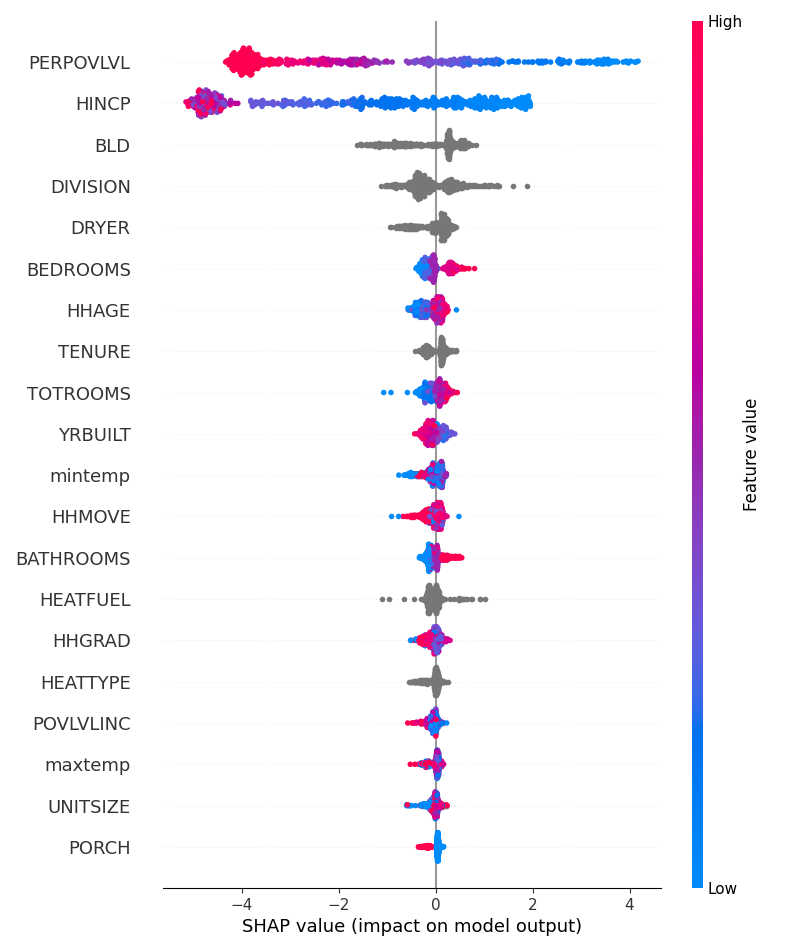
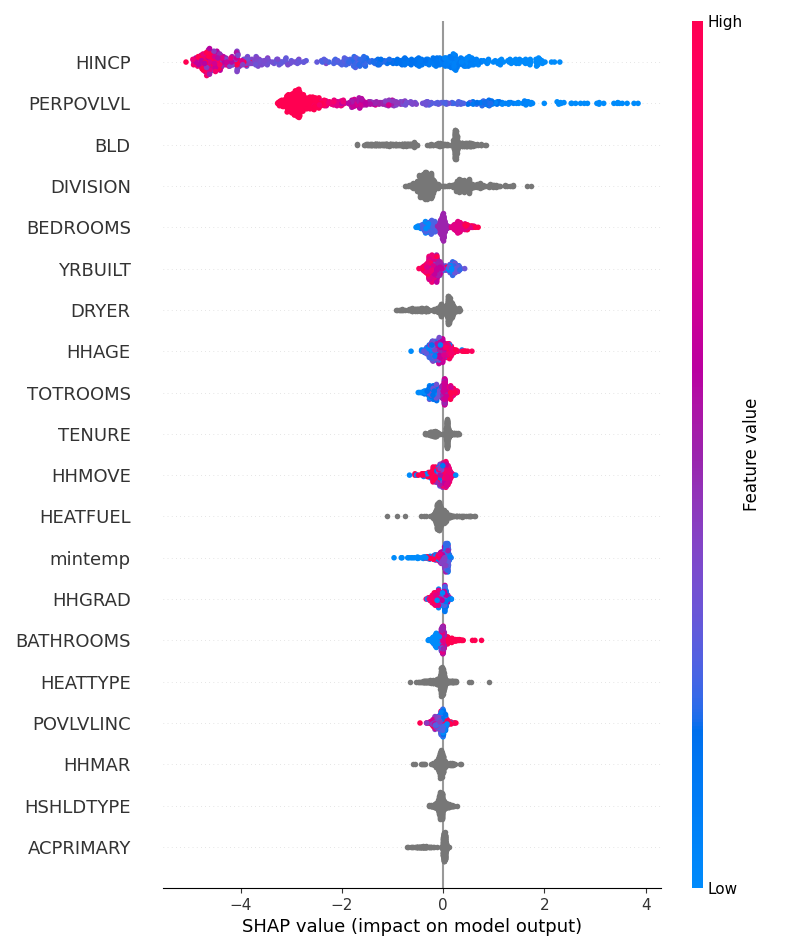
Improve data checks (further checks to be implemented). Calibration plot for xgboost on data with current climate.

diff --git a/code/00_shared/analysis_functions.py b/code/00_shared/analysis_functions.py
@@ -1,12 +1,16 @@
 import os
 import pickle
 import joblib
+import numpy as np
 import polars as pl
 import lightgbm as lgb
 import xgboost as xgb
 import pandas as pd
 import shap
 from sklearn.metrics import roc_auc_score, classification_report
+from sklearn.calibration import calibration_curve
+from sklearn.metrics import brier_score_loss
+from sklearn.model_selection import StratifiedKFold
 import matplotlib.pyplot as plt
 
 
@@ -111,8 +115,9 @@ def run_lightgbm(X_train, X_test, y_train, y_test, w_train=None, label="", cbsa=
     return model, X_test_pd
 
 
+# scale_pos_weight true ratio is 4.83
 def run_xgboost(X_train, X_test, y_train, y_test, w_train=None,
-                cat_cols=None, scale_pos_weight=4.83, label="", cbsa=True):
+                cat_cols=None, scale_pos_weight=4.83, label="", cbsa=True, name=None):
     """
     Train and evaluate an XGBoost classifier with SHAP explainability.
 
@@ -120,7 +125,9 @@ def run_xgboost(X_train, X_test, y_train, y_test, w_train=None,
     cat_cols: list of categorical column names requiring sentinel/int/category encoding.
     scale_pos_weight: ratio of negatives to positives in training data.
     cbsa=False drops OMB13CBSA from the feature set (and cat_cols) before training.
-    Prints AUC-ROC, classification report, top-20 feature importance, and SHAP plots.
+    name: if provided, runs 5-fold CV on the training set and saves a calibration plot
+          to tree_model_output/{name}_calibration.png before final training.
+    Prints AUC-ROC, classification report, and top-20 feature importance.
     """
     header = f"XGBOOST {label}".strip() if label else "XGBOOST"
     print(f"\n\nRUNNING {header}")
@@ -142,6 +149,31 @@ def run_xgboost(X_train, X_test, y_train, y_test, w_train=None,
         X_train_pd = prepare_cat_cols(X_train_pd, cat_cols)
         X_test_pd  = prepare_cat_cols(X_test_pd, cat_cols)
 
+    if name is not None:
+        y_tr_np = y_train.to_numpy() if hasattr(y_train, "to_numpy") else np.array(y_train)
+        w_np    = w_train.to_numpy() if w_train is not None and hasattr(w_train, "to_numpy") else w_train
+        oof_probs = np.zeros(len(y_tr_np))
+        skf = StratifiedKFold(n_splits=5, shuffle=True, random_state=42)
+        for fold_tr_idx, fold_val_idx in skf.split(X_train_pd, y_tr_np):
+            X_fold_tr  = X_train_pd.iloc[fold_tr_idx]
+            X_fold_val = X_train_pd.iloc[fold_val_idx]
+            y_fold_tr  = y_tr_np[fold_tr_idx]
+            y_fold_val = y_tr_np[fold_val_idx]
+            fold_model = xgb.XGBClassifier(
+                enable_categorical=True, tree_method="hist",
+                n_estimators=1000, learning_rate=0.05, max_depth=6,
+                scale_pos_weight=scale_pos_weight, subsample=0.8, colsample_bytree=0.8,
+                random_state=42, n_jobs=-1, eval_metric="logloss", early_stopping_rounds=50, min_child_weight = 3
+            )
+            fold_kwargs = dict(eval_set=[(X_fold_val, y_fold_val)], verbose=False)
+            if w_np is not None:
+                fold_kwargs["sample_weight"] = w_np[fold_tr_idx]
+            fold_model.fit(X_fold_tr, y_fold_tr, **fold_kwargs)
+            oof_probs[fold_val_idx] = fold_model.predict_proba(X_fold_val)[:, 1]
+        cv_label = f"{label} (5-fold CV)" if label else "5-fold CV"
+        _save_calibration_plot(y_tr_np, oof_probs, name=name, label=cv_label)
+        print("*Calibration plot saved.\n\n")
+
     model = xgb.XGBClassifier(
         enable_categorical=True,
         tree_method="hist",
@@ -155,6 +187,7 @@ def run_xgboost(X_train, X_test, y_train, y_test, w_train=None,
         n_jobs=-1,
         eval_metric="logloss",
         early_stopping_rounds=50,
+        min_child_weight = 3
     )
 
     fit_kwargs = dict(
@@ -179,6 +212,31 @@ def run_xgboost(X_train, X_test, y_train, y_test, w_train=None,
     print(importance.head(20))
 
     return model, X_test_pd
+
+
+def _save_calibration_plot(y_true, y_prob, name, label="", n_bins=10):
+    """Save a calibration (reliability) diagram from pre-computed probabilities."""
+    prob_true, prob_pred = calibration_curve(y_true, y_prob, n_bins=n_bins)
+    brier = brier_score_loss(y_true, y_prob)
+    header = f" — {label}" if label else ""
+    print(f"\n\nCALIBRATION{header}")
+    print(f"Brier score: {brier:.4f}")
+    fig, ax = plt.subplots(figsize=(8, 6))
+    ax.plot([0, 1], [0, 1], "k--", label="Perfectly calibrated")
+    ax.plot(prob_pred, prob_true, marker="o", label="XGBoost")
+    ax.set_xlabel("Mean predicted probability")
+    ax.set_ylabel("Fraction of positives")
+    ax.set_title(f"Calibration Plot{header}\nBrier score: {brier:.4f}")
+    ax.legend()
+    plt.tight_layout()
+    plt.savefig(f"tree_model_output/{name}_calibration.png")
+    plt.close()
+
+
+def run_calibration_plot(model, X_test_pd, y_test, name, label="", n_bins=10):
+    y_true = y_test.to_numpy() if hasattr(y_test, "to_numpy") else y_test
+    y_prob = model.predict_proba(X_test_pd)[:, 1]
+    _save_calibration_plot(y_true, y_prob, name=name, label=label, n_bins=n_bins)
 
 
 def run_shap(model, X_test_pd, name, label="", max_samples=500): # Max samples=None one if you want the full dataset passed

diff --git a/code/01_current_climate/03_analysis/00.1_analysis_module.py b/code/01_current_climate/03_analysis/00.1_analysis_module.py
@@ -5,7 +5,7 @@ import os
 
 
 def get_splits(data):
-    X = data.drop(["energy_poverty"])
+    X = data.drop(["energy_poverty", "CONTROL"]) # WEIGHT is dropped when created weight splits and nw splits
     y = data["energy_poverty"]
 
     X_train, X_test, y_train, y_test = train_test_split(
@@ -32,7 +32,7 @@ os.makedirs("data/processed/current_climate/with_weights",    exist_ok=True)
 os.makedirs("data/processed/current_climate/without_weights", exist_ok=True)
 
 # --- With CBSA ---
-ahs_climate = pl.read_csv("data/processed/current_climate/01_02_05_basic_ready_for_trees_ahs_climate.csv")
+ahs_climate = pl.read_csv("data/processed/current_climate/basic_ready_for_trees_ahs_climate.csv")
 ahs_climate_no_weights = ahs_climate.drop("WEIGHT")
 
 info_with_weights    = get_splits(ahs_climate)
@@ -48,7 +48,7 @@ for name, file in info_without_weights.items():
         pickle.dump(file, f)
 
 # --- Without CBSA ---
-ahs_no_cbsa = pl.read_csv("data/processed/current_climate/01_02_05_basic_ready_for_trees_ahs_climate_no_cbsa.csv")
+ahs_no_cbsa = pl.read_csv("data/processed/current_climate/basic_ready_for_trees_ahs_climate_no_cbsa.csv")
 ahs_no_cbsa_no_weights = ahs_no_cbsa.drop("WEIGHT")
 
 info_no_cbsa_with_weights    = get_splits(ahs_no_cbsa)

diff --git a/code/02_projected_climate/02_analysis/02_xgboost_analysis.py b/code/02_projected_climate/02_analysis/02_xgboost_analysis.py
@@ -11,7 +11,7 @@ CAT_COLS_NO_CBSA = [  # Does not include SEWTYPE, ASECONDRY, or OMB13CBSA
 ]
 
 YEARS = [2050]
-COLS_TO_DROP = ["energy_poverty", "year", "WEIGHT"]
+COLS_TO_DROP = ["energy_poverty", "year", "WEIGHT", "CONTROL"]
 TEMP_RENAME = {"proj_tasmin": "mintemp", "proj_tasmax": "maxtemp", "proj_tas": "avgtemp"}
 
 model_nc_w  = load_model("data/processed/models/current_climate_xgboost_no_cbsa_with_weights.pkl")
@@ -28,9 +28,13 @@ for year in YEARS:
     cbsa = raw_pd["OMB13CBSA"].copy()
     X = prepare_cat_cols(raw_pd, CAT_COLS_NO_CBSA)[list(model_nc_w.get_booster().feature_names)]
 
-    mean_w = model_nc_w.predict_proba(X)[:, 1].mean()
+    pred_probs_w = model_nc_w.predict_proba(X)[:, 1]
+    mean_w = pred_probs_w.mean()
     print(f"WITH WEIGHTS model    — mean predicted EP probability: {mean_w:.4f}")
     run_shap(model_nc_w, X, name=f"proj_climate_xgboost_{year}", label=f"WITH WEIGHTS — {year}")
+
+    out = pl.DataFrame({"CONTROL": data["CONTROL"], "pred_prob_xgb_w": pred_probs_w})
+    out.write_csv(f"tree_model_output/xgboost_{year}_with_weights.csv")
 
     # mean_nw = model_nc_nw.predict_proba(X)[:, 1].mean()
     # print(f"WITHOUT WEIGHTS model — mean predicted EP probability: {mean_nw:.4f}")

diff --git a/code/01_current_climate/02_cleaning/06_last_minute_cleanup.py b/code/01_current_climate/02_cleaning/06_last_minute_cleanup.py
@@ -2,7 +2,7 @@ import polars as pl
 import polars.selectors as cs
 from polars import col, lit, when
 
-ahs_climate = pl.read_csv("data/interim/current_climate/01_02_04_cat_collapsed_ahs_climate.csv")
+ahs_climate = pl.read_csv("data/interim/current_climate/05_ahs_excl.csv")
 
 ahs_climate = ahs_climate.drop(["TOTHCAMT", "INSURAMT"])
 
@@ -11,14 +11,14 @@ ahs_climate = ahs_climate.drop("yearly_utils_cost")
 
 
 # --------------------------------------------------------------------------------
-csv_string = "data/processed/current_climate/01_02_05_basic_ready_for_trees_ahs_climate.csv"
+csv_string = "data/processed/current_climate/basic_ready_for_trees_ahs_climate.csv"
 import polars as pl
 
 
 # Getting one without the CBSA as those are correlated with temp variables
 
 ahs_climate_no_cbsa = ahs_climate.drop("OMB13CBSA")
-ahs_climate_no_cbsa.write_csv("data/processed/current_climate/01_02_05_basic_ready_for_trees_ahs_climate_no_cbsa.csv")
+ahs_climate_no_cbsa.write_csv("data/processed/current_climate/basic_ready_for_trees_ahs_climate_no_cbsa.csv")
 
 
 print(f"\nWriting data to {csv_string} now...")

diff --git a/code/01_current_climate/02_cleaning/05.1_basic_exclusions.py b/code/01_current_climate/02_cleaning/05.1_basic_exclusions.py
@@ -1,0 +1,23 @@
+import polars as pl
+import polars.selectors as cs
+from polars import col, lit, when
+import pandas as pd
+
+ahs_climate_raw = pl.read_csv("data/interim/current_climate/01_02_04_cat_collapsed_ahs_climate.csv")
+
+ahs_climate_excl = (
+    ahs_climate_raw
+    # utils cost flags
+    .filter(~((col("TENURE") == 2) & (col("yearly_utils_cost") == 0))) # exclude renters who don't explicitely pay utilities
+    .filter(~((col("TENURE") == 1) & (col("yearly_utils_cost") == 0))) # exclude homeowners with 0 utility cost
+    .filter(col("CONTROL") != 11034668) # extreme outlier (yearly util cost = 18960 but income is 38k)
+    # income flags
+    .filter(col("HINCP") != 0) # Zero income
+    .filter(col("HINCP") >= 4999) # Potential noise, exclude to be safe
+    .filter(col("yearly_utils_cost") <= col("HINCP")) # Impossible
+    .filter(col("HINCP") <= 848000) # implausible, high income
+)
+
+
+
+ahs_climate_excl.write_csv("data/interim/current_climate/05_ahs_excl.csv")

diff --git a/code/heterogeneity_analysis/cbsa.py b/code/heterogeneity_analysis/cbsa.py
@@ -1,0 +1,18 @@
+import polars as pl
+
+proj_clim_2050 = pl.read_csv("data/processed/projected_climate/02_02_ahs_cmip_2050.csv")
+pred_2050 = pl.read_csv("tree_model_output/xgboost_2050_with_weights.csv")
+
+
+proj_clim_prob = proj_clim_2050.join(pred_2050, on = "CONTROL", how = "left")
+
+# Now analyze by CBSA
+proj_clim_prob_by_cbsa = proj_clim_prob.group_by("OMB13CBSA").agg([
+    pl.col("pred_prob_xgb_w").mean().alias("mean_ep_prob"),
+    pl.col("energy_poverty").mean().alias("actual_ep_rate"),
+    pl.len().alias("n")
+]).sort("mean_ep_prob", descending=True)
+
+print(proj_clim_prob_by_cbsa.head)
+
+proj_clim_prob_by_cbsa.write_csv("code/heterogeneity_analysis/by_cbsa.csv")

diff --git a/code/02_projected_climate/01_joining/02_join_ahs_cmip.py b/code/02_projected_climate/01_joining/02_join_ahs_cmip.py
@@ -7,7 +7,7 @@ from polars import col, lit, when
 #   I'll just drop the current climate vars and put in the projected climate vars
 #   This is because the AHS data is already cleaned but was cleaned after joining and I don't want to go refactor it
 
-ahs_with_noaa = pl.read_csv("data/processed/current_climate/01_02_05_basic_ready_for_trees_ahs_climate.csv")
+ahs_with_noaa = pl.read_csv("data/processed/current_climate/basic_ready_for_trees_ahs_climate.csv")
 proj_climate = pl.read_csv("data/interim/projected_climate/02_01_cmip6_loca2_tas_vars.csv")
 
 crosswalk_raw = pl.read_csv("data/external/crosswalks/cbsa2fipsxw_2023.csv")

diff --git a/code/01_current_climate/03_analysis/03_xgboost_analysis.py b/code/01_current_climate/03_analysis/03_xgboost_analysis.py
@@ -35,7 +35,11 @@ splits_nc, splits_nc_nw = load_splits(
     cbsa=False,
 )
 
-model_nc_w, X_test_nc_w = run_xgboost(**splits_nc, cat_cols=CAT_COLS, scale_pos_weight=4.83, label="WITH WEIGHTS — no CBSA", cbsa=False)
+model_nc_w, X_test_nc_w = run_xgboost(
+    **splits_nc, cat_cols=CAT_COLS, scale_pos_weight=4.83,
+    label="WITH WEIGHTS — no CBSA", cbsa=False,
+    name="current_climate_xgboost_no_cbsa",
+)
 run_shap(model_nc_w, X_test_nc_w, name="current_climate_xgboost_no_cbsa", label="WITH WEIGHTS — no CBSA")
 save_model(model_nc_w, "data/processed/models/current_climate_xgboost_no_cbsa_with_weights.pkl")
 

diff --git a/code/03_sensitivity_analysis/01_hincp_simultaneous/01_xgboost_analysis.py b/code/03_sensitivity_analysis/01_hincp_simultaneous/01_xgboost_analysis.py
@@ -10,7 +10,7 @@ CAT_COLS_NO_CBSA = [  # Does not include SEWTYPE, ASECONDRY, or OMB13CBSA
     "ACPRIMARY", "SUPP1HEAT", "FIREPLACE", "MULTIGEN", "SAMEHHLD",
 ]
 
-COLS_TO_DROP = ["energy_poverty", "year", "WEIGHT"]
+COLS_TO_DROP = ["energy_poverty", "year", "WEIGHT", "CONTROL"]
 TEMP_RENAME  = {"proj_tasmin": "mintemp", "proj_tasmax": "maxtemp", "proj_tas": "avgtemp"}
 
 FACTORS = {90: 0.90, 100: 1.00, 110: 1.10, 120: 1.20, 130: 1.30}

diff --git a/code/03_sensitivity_analysis/02_hincp_shift_quintiles/01_xgboost_analysis.py b/code/03_sensitivity_analysis/02_hincp_shift_quintiles/01_xgboost_analysis.py
@@ -11,7 +11,7 @@ CAT_COLS_NO_CBSA = [  # Does not include SEWTYPE, ASECONDRY, or OMB13CBSA
     "ACPRIMARY", "SUPP1HEAT", "FIREPLACE", "MULTIGEN", "SAMEHHLD",
 ]
 
-COLS_TO_DROP = ["energy_poverty", "year", "WEIGHT"]
+COLS_TO_DROP = ["energy_poverty", "year", "WEIGHT", "CONTROL"]
 TEMP_RENAME  = {"proj_tasmin": "mintemp", "proj_tasmax": "maxtemp", "proj_tas": "avgtemp"}
 
 # Quintile-specific HINCP multipliers (1 + percent increase)

diff --git a/code/03_sensitivity_analysis/03_hincp_shift_quintiles_optimistic/01_xgboost_analysis.py b/code/03_sensitivity_analysis/03_hincp_shift_quintiles_optimistic/01_xgboost_analysis.py
@@ -11,7 +11,7 @@ CAT_COLS_NO_CBSA = [  # Does not include SEWTYPE, ASECONDRY, or OMB13CBSA
     "ACPRIMARY", "SUPP1HEAT", "FIREPLACE", "MULTIGEN", "SAMEHHLD",
 ]
 
-COLS_TO_DROP = ["energy_poverty", "year", "WEIGHT"]
+COLS_TO_DROP = ["energy_poverty", "year", "WEIGHT", "CONTROL"]
 TEMP_RENAME  = {"proj_tasmin": "mintemp", "proj_tasmax": "maxtemp", "proj_tas": "avgtemp"}
 
 # Quintile-specific HINCP multipliers (1 + percent increase)

diff --git a/code/03_sensitivity_analysis/04_q1_shifts_only/01_xgboost_analysis.py b/code/03_sensitivity_analysis/04_q1_shifts_only/01_xgboost_analysis.py
@@ -11,7 +11,7 @@ CAT_COLS_NO_CBSA = [  # Does not include SEWTYPE, ASECONDRY, or OMB13CBSA
     "ACPRIMARY", "SUPP1HEAT", "FIREPLACE", "MULTIGEN", "SAMEHHLD",
 ]
 
-COLS_TO_DROP = ["energy_poverty", "year", "WEIGHT"]
+COLS_TO_DROP = ["energy_poverty", "year", "WEIGHT", "CONTROL"]
 TEMP_RENAME  = {"proj_tasmin": "mintemp", "proj_tasmax": "maxtemp", "proj_tas": "avgtemp"}
 
 Q1_SHIFTS = [0.10, 0.20, 0.30, 0.50, 0.70, 1.00, 1.50, 2.00]
